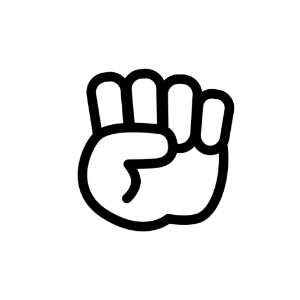
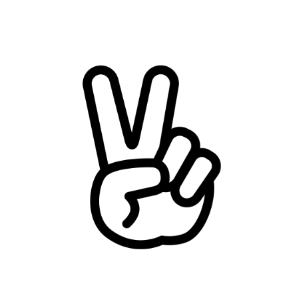
wip

Changed region(s): [[0.24, 0.21, 0.78, 0.84]]

diff --git a/index.html b/index.html
@@ -12,45 +12,30 @@
      </head>
 
      <body class="bg-gray-200 relative">
-          <div class="container bg-center bg-no-repeat m-auto bg-cover w-96 overflow-hidden h-screen" style="background-image: url('images/1.jpg');">
-               <div class="timer" id="timer">aaaaaaaaaaaaaa</div>
+          <div
+               class="container bg-center bg-no-repeat m-auto bg-cover w-96 overflow-hidden h-screen"
+               style="background-image: url('images/1.jpg'); background-color:rgba(0,0,0,.1); background-blend-mode:color-burn;">
+               <div class=" timer" id="timer">aaaaaaaaaaaaaa</div>
+               <div class="total-score text-white" id="total-score">0</div>
 
                <!-- target button -->
                <div
                     style="height:9999px;"
                     id="janken-preview-area"
-                    class="flex flex-col-reverse gap-10 bg-gray-00 w-28 mx-auto absolute bottom-48 right-0 left-0 text-center">
-                    <div
-                         class="relative mx-auto"
-                         data-jankenID="0">
-                         <div class="absolute top-0 right-0 h-3 w-3 my-1 border-2 border-white rounded-full bg-green-400 z-1"></div>
-                         <img
-                              class="rounded-full shadow-sm cursor-pointer border-4 border-sky-300 hover:border-sky-400 bg-sky-50 hover:bg-sky-100 h-20 w-20"
-                              src="./images/case-1.png"
-                              alt="">
-                    </div>
-                    <div
-                         class="relative mx-auto"
-                         data-jankenID="1">
-                         <div class="absolute top-0 right-0 h-3 w-3 my-1 border-2 border-white rounded-full bg-green-400 z-1"></div>
-                         <img
-                              class="rounded-full shadow-sm cursor-pointer border-4 border-pink-300 hover:border-pink-400 bg-sky-50  h-20 w-20"
-                              src="./images/case-2.png"
-                              alt="">
-                    </div>
+                    class="flex flex-col-reverse gap-10 bg-gray-00 w-28 mx-auto absolute bottom-52 right-0 left-0 text-center">
                </div>
 
                <!-- janken button -->
-               <div class="absolute bottom-8 right-0 left-0 flex justify-center gap-6 mb-6">
+               <div class="absolute h-40 bottom-6 right-0 left-0 flex justify-center gap-3 mb-6">
                     <img
-                         onclick="p_select_click(0);"
-                         class="inline-block cursor-pointer border-4 border-sky-300 hover:border-sky-400 bg-sky-50 hover:bg-sky-100 h-20 w-20 rounded-full" src="./images/case-1.png" alt="">
+                         onclick="clickOfferer(0);"
+                         class="inline-block cursor-pointer border-4 border-sky-300 hover:border-sky-400 bg-sky-50 hover:bg-sky-100 h-24 w-24 rounded-full" src="./images/case-0.png" alt="">
                     <img
-                         onclick="p_select_click(1);"
-                         class="inline-block cursor-pointer border-4 border-pink-300 hover:border-pink-400 bg-pink-50 hover:bg-pink-100 h-20 w-20 rounded-full" src="./images/case-2.png" alt="">
+                         onclick="clickOfferer(1);"
+                         class="self-end inline-block cursor-pointer border-4 border-pink-300 hover:border-pink-400 bg-pink-50 hover:bg-pink-100 h-24 w-24 rounded-full" src="./images/case-1.png" alt="">
                     <img
-                         onclick="p_select_click(2);"
-                         class="inline-block cursor-pointer border-4 border-yellow-300 hover:border-yellow-400 bg-yellow-50 hover:bg-yellow-100 h-20 w-20 rounded-full" src="./images/case-3.png" alt="">
+                         onclick="clickOfferer(2);"
+                         class="inline-block cursor-pointer border-4 border-yellow-300 hover:border-yellow-400 bg-yellow-50 hover:bg-yellow-100 h-24 w-24 rounded-full" src="./images/case-2.png" alt="">
                </div>
           </div>
 

diff --git a/script2.js b/script2.js
@@ -1,28 +1,97 @@
+// main game views --------------------------------------------------------------
+
+// janken のリストを作成
+const janken_jp = ['グー', 'チョキ', 'パー',];
+
+// スコアの初期化
+let total_score = 0;
+
+// 出し手変化の変数
+const WIN_REACTION = 1;
+const DROW_REACTION = 2;
+const LOSE_REACTION = 3;
+
+let reaction_num = 0;
+
+
+// ページ読み込み後の初期化処理
 window.onload = function () {
-    let total_win = 0;
-    let total_drow = 0;
-    let total_lose = 0;
-    let total_winning_streak = 0;
-    let total_winning_streak_todays_max = 0;
-    let flag_winning_streak = 0;
 
-    const janken_jp = ['グー', 'チョキ', 'パー',];  //"janken"のリストを作成します。
-
-    let add_code =
-        '<div class="relative mx-auto" data-jankenID="2"><div class="absolute top-0 right-0 h-3 w-3 my-1 border-2 border-white rounded-full bg-green-400 z-1"></div><img class="rounded-full shadow-sm cursor-pointer border-4 border-yellow-300 bg-yellow-50 h-20 w-20" src="./images/case-3.png" alt=""></div >';
     let all_janken_preview_area = "";
-    for (i = 0; i < 5; i++) {
+    for (i = 0; i < 8; i++) {
+        var theme_color = "";
+        var janken_id = Math.floor(Math.random() * 3);
+        if (janken_id == 0) {
+            theme_color = "blue";
+        } else if (janken_id == 1) {
+            theme_color = "red";
+        } else {
+            theme_color = "yellow";
+        }
+        let add_code = `
+        <div class="relative mx-auto" data-jankenID="${janken_id}">
+            <div class="absolute top-0 right-0 h-3 w-3 my-1 border-2 border-white rounded-full bg-green-400 z-1"></div>
+            <img class="rounded-full shadow-sm cursor-pointer border-4 border-${theme_color}-300 bg-${theme_color}-50 h-20 w-20" src="./images/case-${janken_id}.png" alt="">
+        </div >
+        `;
         all_janken_preview_area = all_janken_preview_area + add_code;
     }
     document.getElementById('janken-preview-area').innerHTML = all_janken_preview_area;
 };
 
-function p_select_click(p_janken_id) {
+function clickOfferer(pJankenId) {
 
     let jankenPreviewArea = document.getElementById("janken-preview-area");
     let targetJanken = jankenPreviewArea.firstElementChild;
 
-    alert(targetJanken.dataset.jankenid);
+    if (isWin(pJankenId, targetJanken.dataset.jankenid)) {
+        document.getElementById("total-score").innerHTML = total_score += 100;
+        console.log("win");
+    }
+
+    if (isDrow(pJankenId, targetJanken.dataset.jankenid)) {
+        document.getElementById("total-score").innerHTML = total_score += 0;
+        console.log("drow");
+    }
+
+    if (isLose(pJankenId, targetJanken.dataset.jankenid)) {
+        document.getElementById("total-score").innerHTML = total_score -= 50;
+        console.log("lose");
+    }
 
     jankenPreviewArea.firstElementChild.remove();
+
+    if (jankenPreviewArea.childElementCount) {
+        console.log("next");
+    } else {
+        console.log("finished")
+    }
+}
+
+function isWin(players, coms) {
+    if (players == 0 && coms == 1) {
+        return true;
+    } else if (players == 1 && coms == 2) {
+        return true;
+    } else if (players == 2 && coms == 0) {
+        return true;
+    }
+
+    return false;
+}
+
+function isDrow(players, coms) {
+    if (players == coms) {
+        return true;
+    }
+
+    return false;
+}
+
+function isLose(players, coms) {
+    if (!isWin(players, coms) && !isDrow(players, coms)) {
+        return true;
+    }
+
+    return false;
 }
